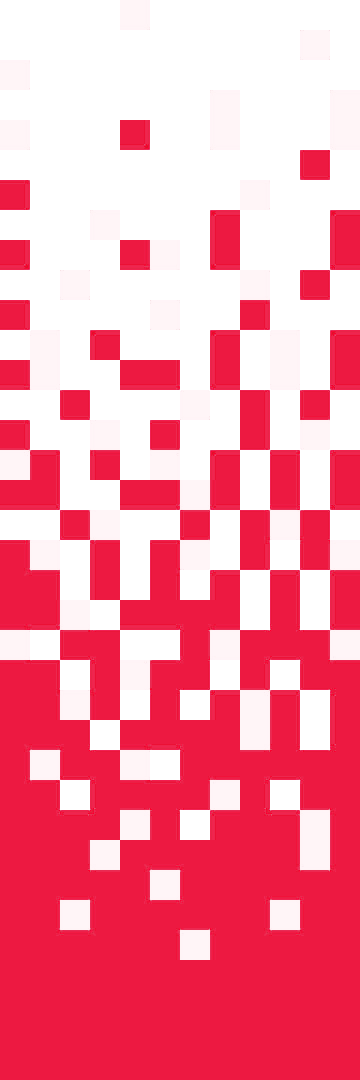
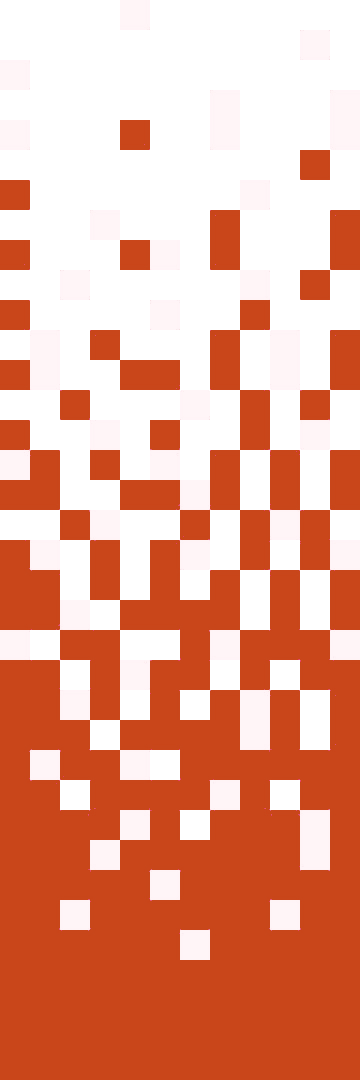
Fixed colors and curves

diff --git a/css/style.scss b/css/style.scss
@@ -72,7 +72,7 @@ section {
   width: 100%;
   background-repeat: no-repeat;
   background-position: center;
-  background-size: cover;
+  background-size: contain;
 }
 
 .layer1 {
@@ -98,7 +98,7 @@ section {
   position: absolute;
   content: '';
   background-image: url('../img/HomeBackgrnd.png');
-  background-size: 100% 100%;
+  background-size: cover;
   opacity: 0.3;
   left: 0;
   top: 0;
@@ -161,7 +161,7 @@ section {
 }
 
 .btn-box .btn:hover {
-  background: #ec0b36 url('../img/pixel.png');
+  background: #c64917 url('../img/pixel.png');
   background-size: contain;
   transition-delay: 0.8s;
   background-size: 100%;
@@ -258,7 +258,7 @@ section {
   left: 0;
   top: 0;
   background-image: url('../img/projectsBground.png');
-  background-size: 100% 100%;
+  background-size: cover;
   width: 100%;
   height: 100%;
   content: '';
@@ -413,14 +413,15 @@ section {
 .contact form .input-box .input-field input {
   width: 100%;
   height: 100%;
-  padding: 1.5rem;
-  // background: transparent;
-  background-image: url('../img/inputmargin.jpg');
-  background-size: 100% 100%;
-  background-repeat: no-repeat;
+  padding: 2.5rem;
+  background: transparent;
+  //background-image: url('../img/inputmargin.jpg');
+  //background-size: 100% 100%;
+  //background-repeat: no-repeat;
   border-radius: 10px;
-  //border: solid 0.2rem $main-color;
+  border: solid 1.2rem $main-color;
   color: $main-color;
+  font-size: 1.1rem;
 }
 
 .contact form .input-box .input-field input::placeholder {
@@ -437,9 +438,10 @@ section {
   height: 100%;
   padding: 1.5rem;
   background: transparent;
-  border: solid 0.2rem $main-color;
+  border: solid 1.2rem $main-color;
   color: $main-color;
   border-radius: 10px;
+  line-height: 2rem;
 }
 
 .contact form .textarea-field textarea::placeholder {

diff --git a/css/style.css b/css/style.css
@@ -67,7 +67,7 @@ section {
   width: 100%;
   background-repeat: no-repeat;
   background-position: center;
-  background-size: cover;
+  background-size: contain;
 }
 
 .layer1 {
@@ -94,7 +94,7 @@ section {
   position: absolute;
   content: "";
   background-image: url("../img/HomeBackgrnd.png");
-  background-size: 100% 100%;
+  background-size: cover;
   opacity: 0.3;
   left: 0;
   top: 0;
@@ -157,7 +157,7 @@ section {
 }
 
 .btn-box .btn:hover {
-  background: #ec0b36 url("../img/pixel.png");
+  background: #c64917 url("../img/pixel.png");
   background-size: contain;
   transition-delay: 0.8s;
   background-size: 100%;
@@ -228,7 +228,7 @@ section {
   left: 0;
   top: 0;
   background-image: url("../img/projectsBground.png");
-  background-size: 100% 100%;
+  background-size: cover;
   width: 100%;
   height: 100%;
   content: "";
@@ -381,12 +381,12 @@ section {
 .contact form .input-box .input-field input {
   width: 100%;
   height: 100%;
-  padding: 1.5rem;
-  background-image: url("../img/inputmargin.jpg");
-  background-size: 100% 100%;
-  background-repeat: no-repeat;
+  padding: 2.5rem;
+  background: transparent;
   border-radius: 10px;
+  border: solid 1.2rem #00abf0;
   color: #00abf0;
+  font-size: 1.1rem;
 }
 
 .contact form .input-box .input-field input::-moz-placeholder {
@@ -408,9 +408,10 @@ section {
   height: 100%;
   padding: 1.5rem;
   background: transparent;
-  border: solid 0.2rem #00abf0;
+  border: solid 1.2rem #00abf0;
   color: #00abf0;
   border-radius: 10px;
+  line-height: 2rem;
 }
 
 .contact form .textarea-field textarea::-moz-placeholder {
